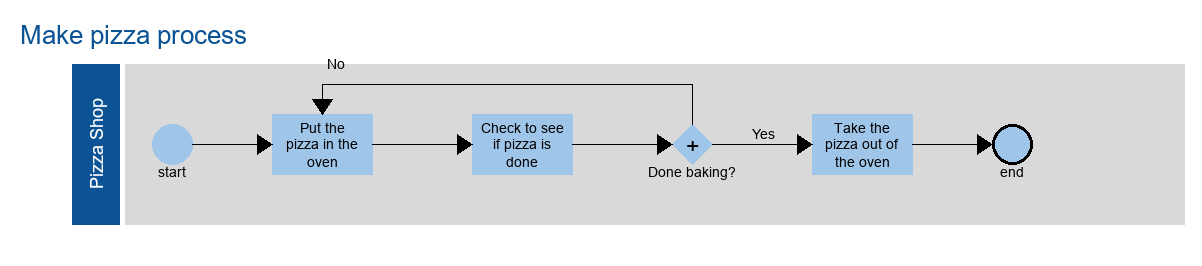
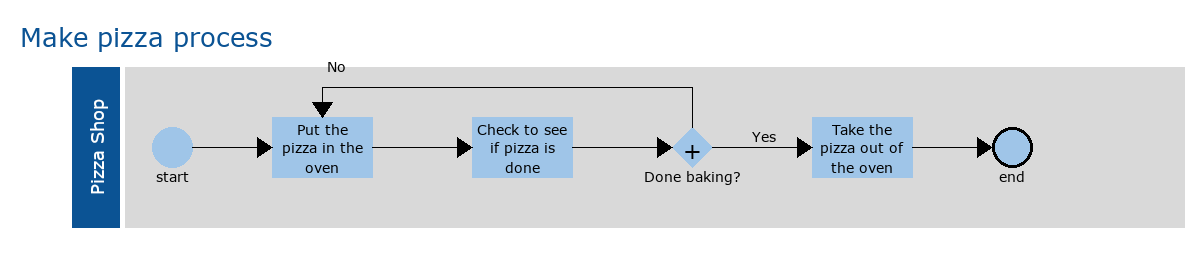
Remove absolute reference to 'Arial'

diff --git a/src/processpiper/title.py b/src/processpiper/title.py
@@ -28,9 +28,9 @@ class Title:
     """Title of the process map"""
 
     name: str = field(init=True, default="<Process Map Title>")
-    font: str = field(init=True, default="Arial")
-    font_size: int = field(init=True, default=28)
-    font_colour: str = field(init=True, default="black")
+    font: str = field(init=True, default=None)
+    font_size: int = field(init=True, default=None)
+    font_colour: str = field(init=True, default=None)
 
     x: int = field(init=False, default=0)
     y: int = field(init=False, default=0)

diff --git a/src/processpiper/gateway.py b/src/processpiper/gateway.py
@@ -30,7 +30,7 @@ class Gateway(Diamond):
 
     def draw_symbol(self, symbol: str, painter: Painter):
         """Draw a symbol in the middle of the gateway"""
-        symbol_w, symbol_h = painter.get_text_dimension(symbol, "Arial", SYMBOL_SIZE)
+        symbol_w, symbol_h = painter.get_text_dimension(symbol, painter.element_font, SYMBOL_SIZE)
         painter.draw_text(
             self.x + (self.width / 2) - (symbol_w / 2),
             self.y + (self.height / 2) - (symbol_h / 2),

diff --git a/src/processpiper/painter.py b/src/processpiper/painter.py
@@ -823,7 +823,7 @@ class Painter:
 
         label_x_pos, label_y_pos = right_angle_point
 
-        label_w, label_h = self.get_multitext_dimension(label, "Arial", 12)
+        label_w, label_h = self.get_multitext_dimension(label, connector_font, 12)
         if label_x_pos == x1 and label_y_pos == y1:
             ### There is no right angle point
             label_x_pos = max(x1 + 5, x1 + (((x2 - x1) - label_w) / 2))
